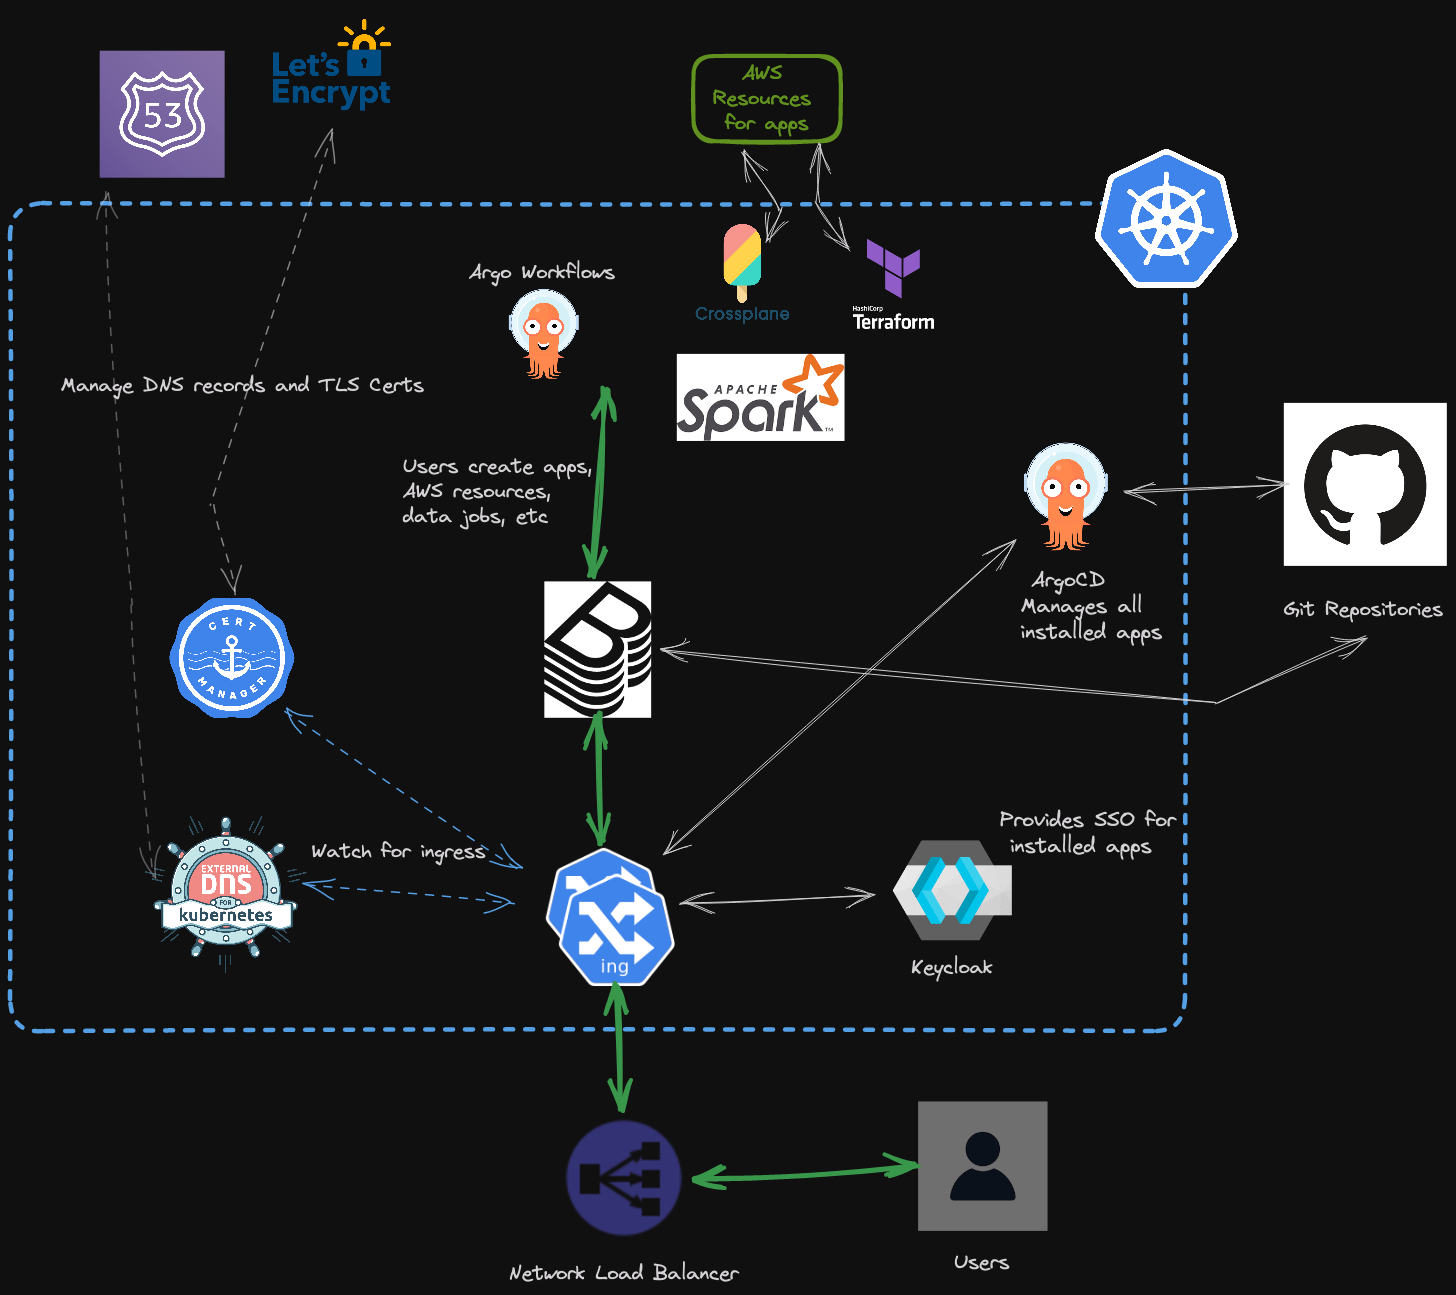
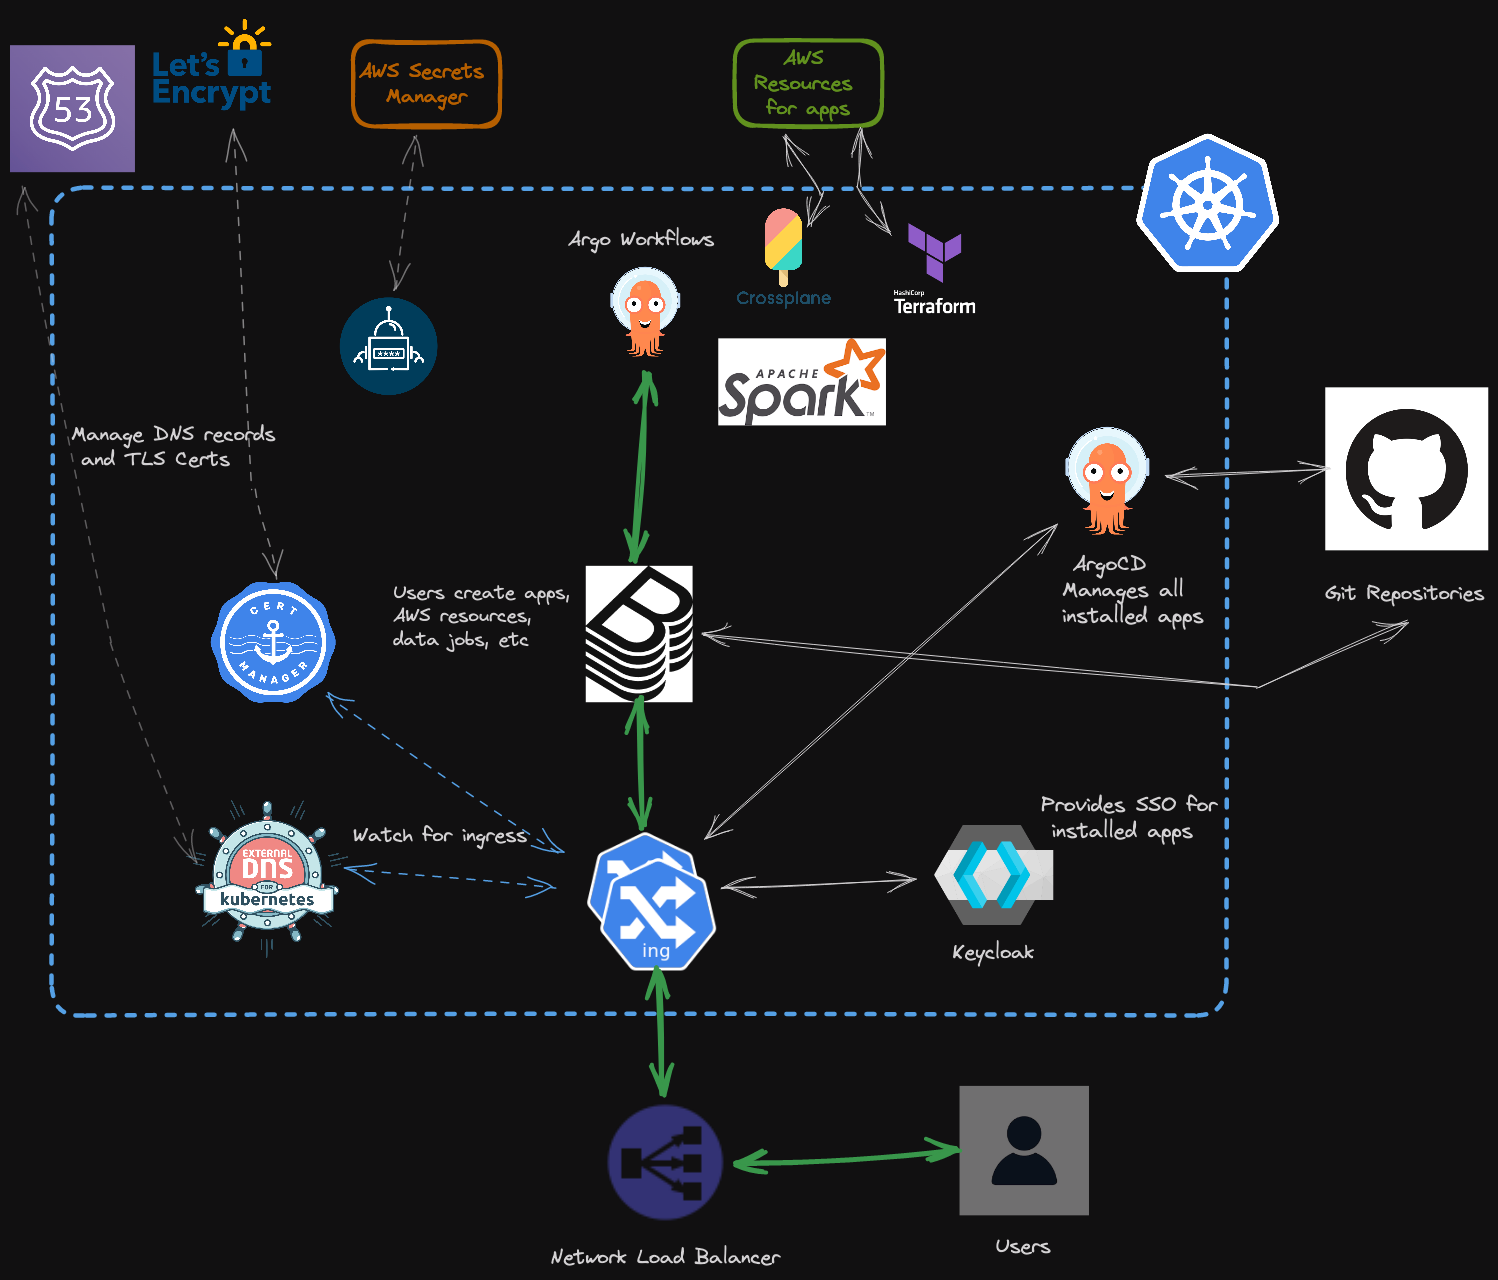
update doc for external secrets

diff --git a/README.md b/README.md
@@ -183,6 +183,7 @@ The following components are installed if you chose the full installation option
 - ingress-nginx
 - keycloak
 - spark-operator
+- external-secrets
 
 ### Things created outside of the cluster
 
